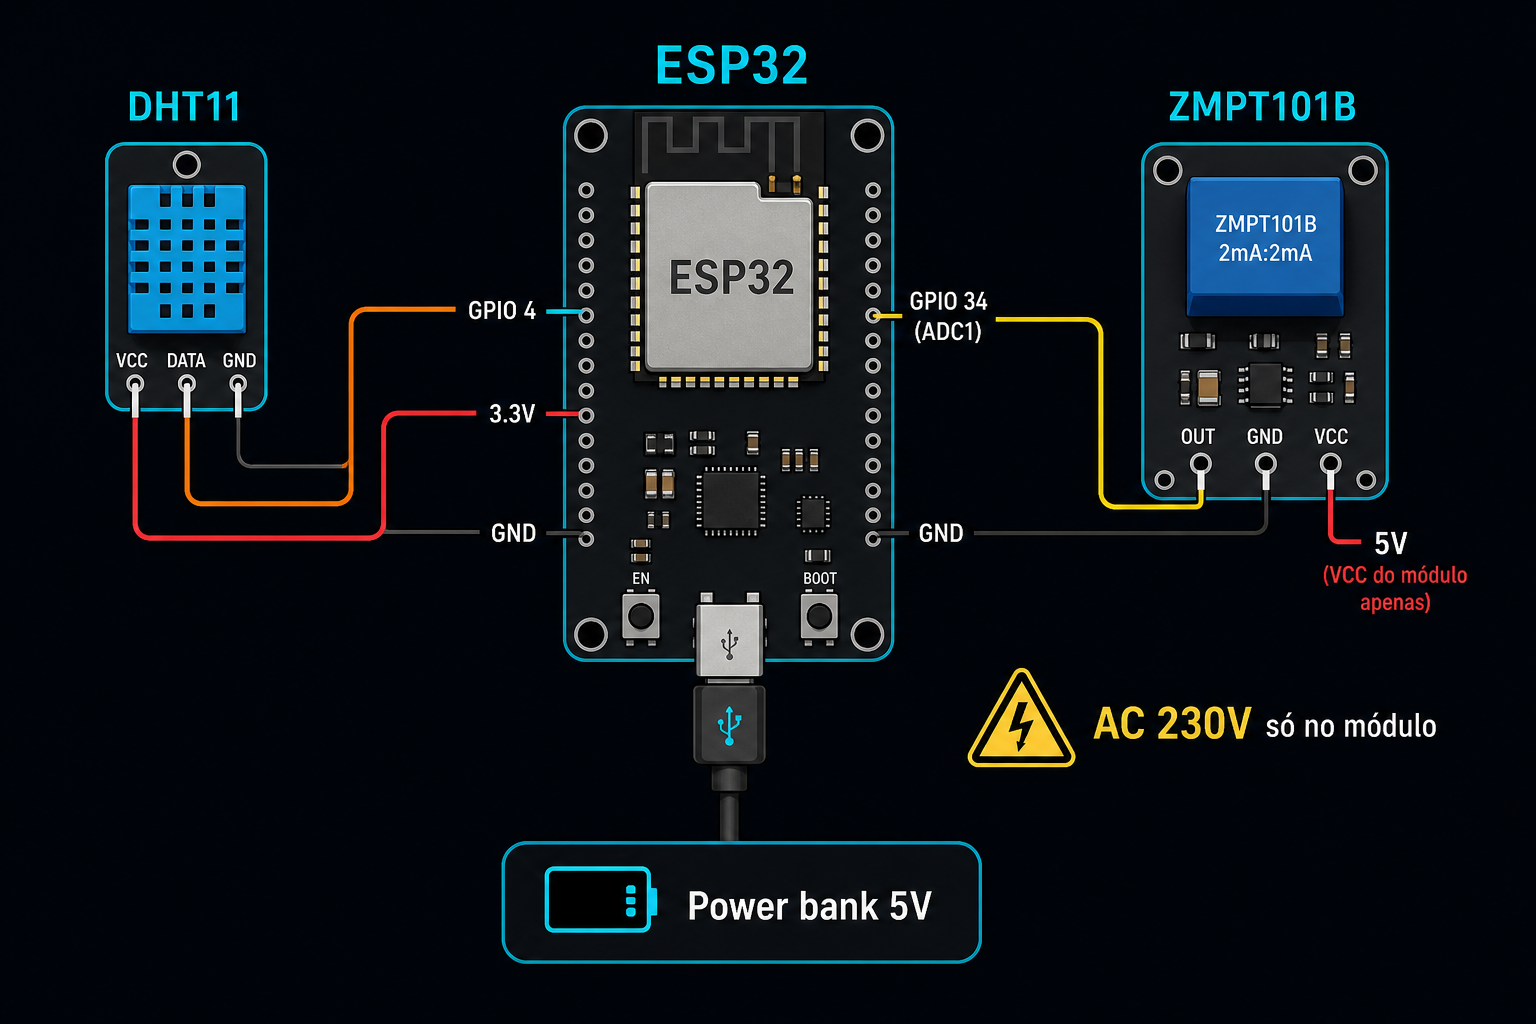
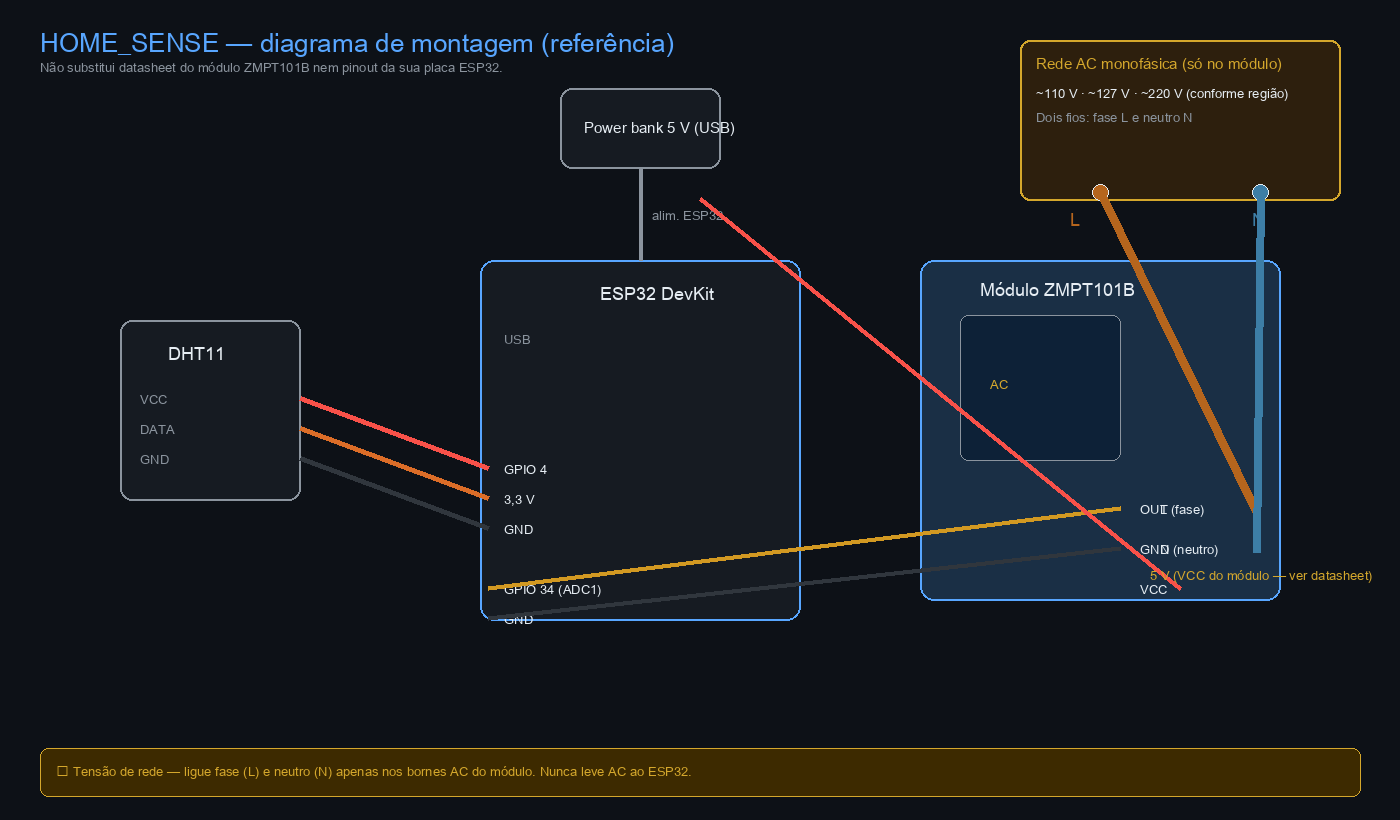
Diagrama: fios AC L/N no ZMPT e script para regenerar PNG

diff --git a/tools/render_wiring_diagram.py b/tools/render_wiring_diagram.py
@@ -1,0 +1,158 @@
+#!/usr/bin/env python3
+"""
+Gera docs/wiring-home-sense.png — diagrama de montagem de referência (estilo esquemático).
+Inclui fios AC monofásicos (fase L / neutro N) até o módulo ZMPT101B (~110 V / ~220 V conforme região).
+"""
+from __future__ import annotations
+
+from pathlib import Path
+
+from PIL import Image, ImageDraw, ImageFont
+
+ROOT = Path(__file__).resolve().parents[1]
+OUT = ROOT / "docs" / "wiring-home-sense.png"
+
+W, H = 1400, 820
+BG = "#0d1117"
+PANEL = "#161b22"
+TEXT = "#e6edf3"
+MUTED = "#8b949e"
+ACCENT = "#58a6ff"
+WARN = "#d4a72c"
+AC_L = "#b5651d"
+AC_N = "#3d7ea6"
+WIRE_RED = "#f85149"
+WIRE_BLK = "#30363d"
+WIRE_ORG = "#db6d28"
+WIRE_YEL = "#d29922"
+
+
+def load_font(size: int) -> ImageFont.FreeTypeFont | ImageFont.ImageFont:
+    for path in (
+        "/System/Library/Fonts/Supplemental/Arial Unicode.ttf",
+        "/System/Library/Fonts/Helvetica.ttc",
+        "/usr/share/fonts/truetype/dejavu/DejaVuSans.ttf",
+    ):
+        p = Path(path)
+        if p.exists():
+            return ImageFont.truetype(str(p), size)
+    return ImageFont.load_default()
+
+
+def main() -> None:
+    img = Image.new("RGB", (W, H), BG)
+    d = ImageDraw.Draw(img)
+    f_title = load_font(26)
+    f_lg = load_font(18)
+    f_md = load_font(15)
+    f_sm = load_font(13)
+
+    d.text((40, 24), "HOME_SENSE — diagrama de montagem (referência)", fill=ACCENT, font=f_title)
+    d.text((40, 58), "Não substitui datasheet do módulo ZMPT101B nem pinout da sua placa ESP32.", fill=MUTED, font=f_sm)
+
+    # Power bank
+    pb = (560, 88, 720, 168)
+    d.rounded_rectangle(pb, radius=12, fill=PANEL, outline=MUTED, width=2)
+    d.text((pb[0] + 24, pb[1] + 28), "Power bank 5 V (USB)", fill=TEXT, font=f_md)
+
+    # ESP32
+    esp = (480, 260, 800, 620)
+    d.rounded_rectangle(esp, radius=14, fill=PANEL, outline=ACCENT, width=2)
+    d.text((esp[0] + 120, esp[1] + 20), "ESP32 DevKit", fill=TEXT, font=f_lg)
+    d.text((esp[0] + 24, esp[1] + 70), "USB", fill=MUTED, font=f_sm)
+    d.text((esp[0] + 24, esp[1] + 200), "GPIO 4", fill=TEXT, font=f_sm)
+    d.text((esp[0] + 24, esp[1] + 230), "3,3 V", fill=TEXT, font=f_sm)
+    d.text((esp[0] + 24, esp[1] + 260), "GND", fill=TEXT, font=f_sm)
+    d.text((esp[0] + 24, esp[1] + 320), "GPIO 34 (ADC1)", fill=TEXT, font=f_sm)
+    d.text((esp[0] + 24, esp[1] + 350), "GND", fill=TEXT, font=f_sm)
+
+    # USB cable power bank -> ESP32 (center top of esp)
+    usb_top = ((esp[0] + esp[2]) // 2, esp[1])
+    pb_bottom = ((pb[0] + pb[2]) // 2, pb[3])
+    d.line((pb_bottom[0], pb_bottom[1], usb_top[0], usb_top[1]), fill=MUTED, width=4)
+    d.text((usb_top[0] + 12, (pb_bottom[1] + usb_top[1]) // 2 - 8), "alim. ESP32", fill=MUTED, font=f_sm)
+
+    # DHT11
+    dht = (120, 320, 300, 500)
+    d.rounded_rectangle(dht, radius=12, fill=PANEL, outline=MUTED, width=2)
+    d.text((dht[0] + 48, dht[1] + 20), "DHT11", fill=TEXT, font=f_lg)
+    d.text((dht[0] + 20, dht[1] + 70), "VCC", fill=MUTED, font=f_sm)
+    d.text((dht[0] + 20, dht[1] + 100), "DATA", fill=MUTED, font=f_sm)
+    d.text((dht[0] + 20, dht[1] + 130), "GND", fill=MUTED, font=f_sm)
+
+    # Wires DHT -> ESP (right side of dht to left of esp)
+    x_d = dht[2]
+    y_v, y_d, y_g = dht[1] + 78, dht[1] + 108, dht[1] + 138
+    x_e = esp[0] + 8
+    y_e_v, y_e_d, y_e_g = esp[1] + 208, esp[1] + 238, esp[1] + 268
+    for (ya, yb, col) in ((y_v, y_e_v, WIRE_RED), (y_d, y_e_d, WIRE_ORG), (y_g, y_e_g, WIRE_BLK)):
+        d.line((x_d, ya, x_e, yb), fill=col, width=5)
+
+    # ZMPT module
+    zm = (920, 260, 1280, 600)
+    d.rounded_rectangle(zm, radius=14, fill="#1a2f45", outline=ACCENT, width=2)
+    d.text((zm[0] + 60, zm[1] + 16), "Módulo ZMPT101B", fill=TEXT, font=f_lg)
+    # transformer block
+    d.rounded_rectangle((zm[0] + 40, zm[1] + 55, zm[0] + 200, zm[1] + 200), radius=8, fill="#0d2137", outline=MUTED)
+    d.text((zm[0] + 70, zm[1] + 115), "AC", fill=WARN, font=f_sm)
+    # DC side pins (left of module toward ESP)
+    d.text((zm[0] + 220, zm[1] + 240), "OUT", fill=TEXT, font=f_sm)
+    d.text((zm[0] + 220, zm[1] + 280), "GND", fill=TEXT, font=f_sm)
+    d.text((zm[0] + 220, zm[1] + 320), "VCC", fill=TEXT, font=f_sm)
+    # AC terminals (right edge — fios rede)
+    d.text((zm[2] - 120, zm[1] + 240), "L (fase)", fill=TEXT, font=f_sm)
+    d.text((zm[2] - 120, zm[1] + 280), "N (neutro)", fill=TEXT, font=f_sm)
+
+    # ZMPT OUT/GND -> ESP
+    x_z_out = zm[0] + 200
+    y_z_out, y_z_g = zm[1] + 248, zm[1] + 288
+    x_e_r = esp[0] + 8
+    y_e_34, y_e_g2 = esp[1] + 328, esp[1] + 358
+    d.line((x_z_out, y_z_out, x_e_r, y_e_34), fill=WIRE_YEL, width=5)
+    d.line((x_z_out, y_z_g, x_e_r, y_e_g2), fill=WIRE_BLK, width=5)
+
+    # 5V to ZMPT VCC (from power path — schematic: from PB area)
+    y_z_v = zm[1] + 328
+    d.line((pb[2] - 20, pb[3] + 30, zm[0] + 260, y_z_v), fill=WIRE_RED, width=4)
+    d.text((zm[0] + 230, y_z_v - 22), "5 V (VCC do módulo — ver datasheet)", fill=WARN, font=f_sm)
+
+    # --- Rede AC: tomada + dois fios grossos até L e N ---
+    ac_box = (1020, 40, 1340, 200)
+    d.rounded_rectangle(ac_box, radius=10, fill="#2d1f0d", outline=WARN, width=2)
+    d.text((ac_box[0] + 16, ac_box[1] + 12), "Rede AC monofásica (só no módulo)", fill=WARN, font=f_md)
+    d.text((ac_box[0] + 16, ac_box[1] + 44), "~110 V · ~127 V · ~220 V (conforme região)", fill=TEXT, font=f_sm)
+    d.text((ac_box[0] + 16, ac_box[1] + 68), "Dois fios: fase L e neutro N", fill=MUTED, font=f_sm)
+
+    # Lugs on AC box
+    lug_l = (ac_box[0] + 80, ac_box[3] - 8)
+    lug_n = (ac_box[2] - 80, ac_box[3] - 8)
+    d.ellipse((lug_l[0] - 8, lug_l[1] - 8, lug_l[0] + 8, lug_l[1] + 8), fill=AC_L, outline=TEXT)
+    d.ellipse((lug_n[0] - 8, lug_n[1] - 8, lug_n[0] + 8, lug_n[1] + 8), fill=AC_N, outline=TEXT)
+
+    # Target points on ZMPT (L, N screw area — right side)
+    pt_l = (zm[2] - 24, zm[1] + 252)
+    pt_n = (zm[2] - 24, zm[1] + 292)
+
+    # Thick AC wires
+    d.line((lug_l[0], lug_l[1], pt_l[0], pt_l[1]), fill=AC_L, width=8)
+    d.line((lug_n[0], lug_n[1], pt_n[0], pt_n[1]), fill=AC_N, width=8)
+
+    d.text((lug_l[0] - 30, lug_l[1] + 14), "L", fill=AC_L, font=f_lg)
+    d.text((lug_n[0] - 8, lug_n[1] + 14), "N", fill=AC_N, font=f_lg)
+
+    # Warning strip
+    d.rounded_rectangle((40, H - 72, W - 40, H - 24), radius=8, fill="#3d2a00", outline=WARN, width=1)
+    d.text(
+        (56, H - 58),
+        "⚠ Tensão de rede — ligue fase (L) e neutro (N) apenas nos bornes AC do módulo. Nunca leve AC ao ESP32.",
+        fill=WARN,
+        font=f_sm,
+    )
+
+    OUT.parent.mkdir(parents=True, exist_ok=True)
+    img.save(OUT, "PNG", optimize=True)
+    print(f"Escrito: {OUT}")
+
+
+if __name__ == "__main__":
+    main()

diff --git a/README.md b/README.md
@@ -71,21 +71,34 @@ Valores definidos em `edge/include/config.h` (ajuste se alterar o hardware).
 | **GND** | **GND** | Obrigatório: referência comum com o ESP32. |
 | **VCC do módulo** | Conforme especificação do fabricante (geralmente 5 V ou 3,3 V) | Siga **exclusivamente** o datasheet da sua placa ZMPT101B. |
 
-**Importante:** o lado **rede 230 V AC** deve estar **apenas** no módulo certificado e montado por quem tem competências elétricas. Não ligue AC diretamente ao ESP32. Mau uso pode causar **choque elétrico** ou **incêndio**.
+### Rede AC (110 / 127 / 230 V) → módulo ZMPT101B **somente nos bornes do módulo**
+
+| Fio / condutor | Onde ligar no módulo | Notas |
+|----------------|----------------------|--------|
+| **Fase (L)** | Terminal AC marcado **L** / **Live** / **~** (conforme silk do fabricante) | Use fio com secção e isolação adequadas à corrente do circuito; **nunca** leve este fio ao ESP32. |
+| **Neutro (N)** | Terminal AC marcado **N** / **Neutral** | Mesmo cuidado de isolamento; em diagramas Fritzing, desenhe **dois fios** explícitos da “tomada” até estes bornes. |
+
+**Importante:** o lado **rede AC** (ex.: **~110 V**, **~127 V** ou **~230 V**, conforme a região) deve estar **apenas** no módulo certificado e montado por quem tem competências elétricas. Não ligue AC diretamente ao ESP32. Mau uso pode causar **choque elétrico** ou **incêndio**.
 
 ---
 
 ## Diagrama de ligação
 
-Visão lógica das ligações (GND comum entre DHT11, ESP32 e módulo ZMPT; alimentação USB do ESP32 recomendada via **power bank** para demo estável).
+Visão lógica das ligações (GND comum entre DHT11, ESP32 e módulo ZMPT; **fios da rede monofásica (fase L e neutro N)** só nos terminais AC do módulo ZMPT; alimentação USB do ESP32 recomendada via **power bank** para demo estável).
 
 ```mermaid
 flowchart TB
-    subgraph alim["Alimentação"]
-        PB["Power bank USB 5V"]
+    subgraph alim["Alimentação DC (baixa tensão)"]
+        PB["Power bank USB 5 V"]
+    end
+    subgraph rede_ac["Rede AC — apenas no módulo ZMPT (~110 / ~127 / ~230 V)"]
+        TOM["Tomada / barra AC monofásica"]
+        FL["Fio fase L"]
+        FN["Fio neutro N"]
     end
     subgraph esp["ESP32"]
-        V33["3.3V"]
+        V33["3,3 V"]
+        V5["5 V USB / VIN"]
         G1["GND"]
         IO4["GPIO 4"]
         IO34["GPIO 34 ADC1"]
@@ -97,13 +110,19 @@ flowchart TB
         DD["DATA"]
     end
     subgraph zmpt["Módulo ZMPT101B"]
+        ZL["Terminal AC: L fase"]
+        ZN["Terminal AC: N neutro"]
         ZV["VCC módulo"]
         ZG["GND"]
         ZO["OUT analógico"]
-        ZAC["Entrada AC 230V (apenas no módulo)"]
     end
+    TOM --> FL
+    TOM --> FN
+    FL --> ZL
+    FN --> ZN
     PB --> USB
-    USB --> esp
+    USB --> V5
+    V5 --> ZV
     DV --> V33
     DG --> G1
     DD --> IO4
@@ -115,7 +134,9 @@ Ilustração de referência (PNG gerado para documentação; **não** substitui 
 
 ![Diagrama de ligação HOME_SENSE](docs/wiring-home-sense.png)
 
-> **Fritzing:** não incluímos arquivo `.fz` no repositório. Você pode importar este esquema no [Fritzing](https://fritzing.org/) ou desenhar a partir das tabelas de pinagem e do Mermaid acima.
+*(PNG de referência; fios **L/N** da rede **~110 V / ~127 V / ~220 V** até o ZMPT101B. Para regenerar: `python3 tools/render_wiring_diagram.py` com dependências em `tools/requirements.txt`.)*
+
+> **Fritzing (`.fzz` / breadboard):** não incluímos arquivo no repositório. Ao montar o desenho, inclua **dois fios da rede** (fase **L** e neutro **N**) até os **terminais AC** do módulo ZMPT101B — o ESP32 só liga em **OUT**, **VCC**, **GND** do módulo, nunca em AC. Importe o esquema no [Fritzing](https://fritzing.org/) ou desenhe a partir das tabelas de pinagem e do Mermaid acima.
 
 ---
 
